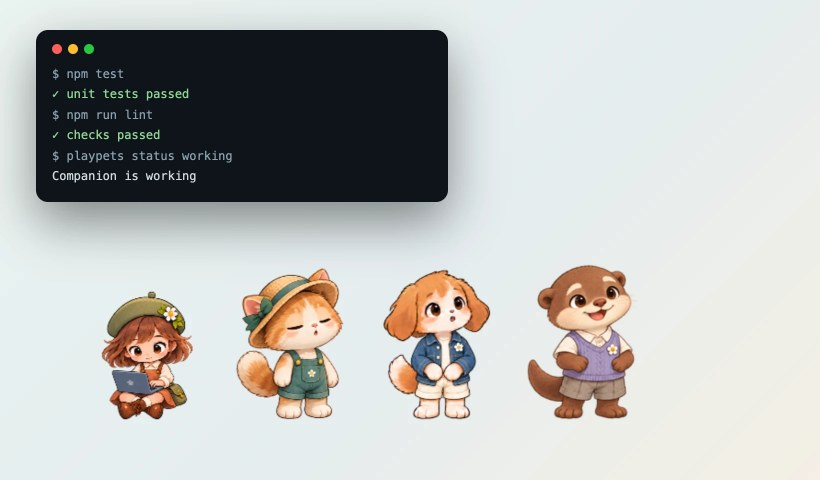
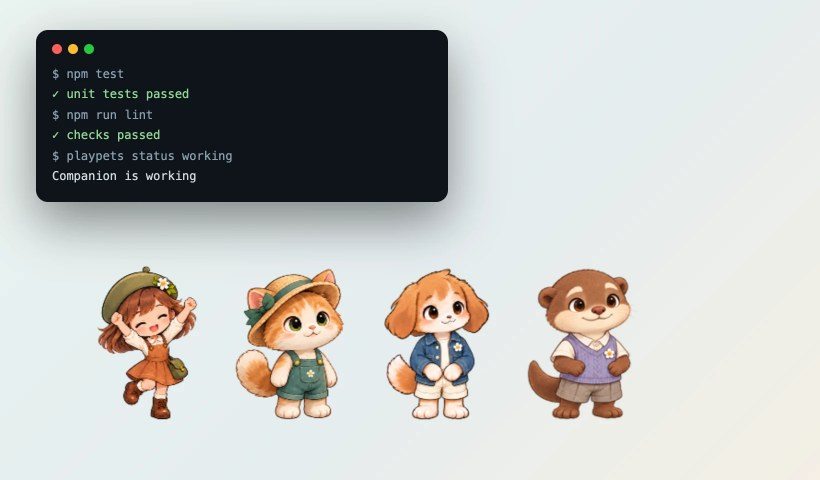
Prepare 1.5.0 with its release pages and new captures
What changed
- Release pages for 1.5.0 in English, Korean, Japanese and Simplified Chinese, still undated: desktop decorating, the 150-entry album, the sky moments and the Windows fixes.
- New captures under website/public/shots/1.5.0 in every site language, and CAPTURE_VERSION moves to them, with the README's.
- pnpm run art redrew the Linux listing pictures and the README animation.
- CHANGELOG lines for the README and the album stamp.

Why
- The album, the yard and the desktop changed since the 1.4.0 captures.

How it was checked
- node scripts/release-page.mjs 1.5.0 and tests/release-notes.test.mjs pass; node scripts/store-notes.mjs 1.5.0 reads well in every language.
- The captures were looked over in each language: album, yard, chat, settings, invite, garden and the desktop.
- pnpm test (Rust 254, Node 1084 passed, 2 skipped), pnpm run lint, pnpm run site:build.

diff --git a/website/ja/releases/1.5.0.md b/website/ja/releases/1.5.0.md
@@ -1,0 +1,39 @@
+---
+version: 1.5.0
+headline: "デスクトップにベンチを"
+---
+
+# 1.5.0
+
+<ReleaseMeta />
+
+デスクトップにベンチを置けるようになりました。友だちとプレゼントを1つずつ出すと、おさんぽ中の友だちが立ち寄ってあいさつします。図鑑は150種類に増えました。
+
+<Downloads version="1.5.0" />
+
+## 変更点
+
+- 友だちを右クリックして**デスクトップに表示**を選ぶと、その友だちだけが出ます。
+- プレゼントもデスクトップに出せて、おさんぽ中の友だちがそばに来てひと言話します。
+- 一度届いたプレゼントは、図鑑の**庭に出す**でまた出せます。
+- デスクトップで右クリックすると、友だちに話しかけたり、デスクトップから外したりできます。
+- 図鑑が150種類に。魚、虫、花、木、小さな発見、プレゼント6種類が加わりました。
+- 図鑑がコレクションノートのようになり、そろった巻には星がつきます。
+- 虹のふもとの地面が光り、そこを掘ると必ず何か見つかります。
+- 天気雨、秋の霧、月明かりの雪、夏の流星群を友だちが教えてくれます。
+- アプリのことを聞くと、友だちがアプリの事実をもとに答えます。
+- 魚と虫はよくいるものほどよく出て、イベント限定のものはレアと表示されます。
+- 思い出のプレゼントのハートは1日だけ出て、その後は指したときだけ出ます。
+- ダウンロードが小さくなり、macOSのディスクイメージは315MBから約180MBになりました。
+- 図鑑で巻を切り替えると、新しい巻の先頭から表示されます。
+- <Only os="Windows" /> Store版のアイコンの後ろに青い四角が出なくなりました。
+- <Only os="Windows" /> Store版で**フォルダーを開く**がエクスプローラーを開くようになりました。
+
+## そのほか
+
+- 最初の友だちは[トップページ](../index.md)から1体ずつ入手でき、ChatGPTやCodexでも使えます。
+- Windowsのダウンロード欄にインストーラー（.exe）も表示されます。[インストール](../guide/install.md)をご覧ください。
+
+友だちとプレゼントの出し方は[デスクトップモード](../guide/desktop.md)、新しく見つかるものは[庭と遊び](../guide/play.md)をご覧ください。
+
+<ReleaseLinks version="1.5.0" />

diff --git a/website/ko/releases/1.5.0.md b/website/ko/releases/1.5.0.md
@@ -1,0 +1,39 @@
+---
+version: 1.5.0
+headline: "바탕화면에 놓인 벤치"
+---
+
+# 1.5.0
+
+<ReleaseMeta />
+
+이제 책상 위에 벤치를 둘 수 있어요. 친구와 선물을 하나씩 내보내면, 산책하던 친구가 들러 인사해요. 도감은 150개로 늘었어요.
+
+<Downloads version="1.5.0" />
+
+## 달라진 점
+
+- 친구를 오른쪽 버튼으로 눌러 **바탕화면에 보이기**를 고르면 그 친구만 나가요.
+- 선물도 바탕화면에 내놓을 수 있고, 산책하던 친구가 옆에 와서 한마디 해요.
+- 한 번 받은 선물은 도감에서 **꺼내 놓기**로 다시 꺼내요.
+- 바탕화면에서 오른쪽 버튼으로 친구에게 말 걸거나 바탕화면에서 빼요.
+- 도감이 150개로 늘었어요. 물고기, 곤충, 꽃, 나무, 작은 발견, 선물 6종이 새로 와요.
+- 도감이 수집 노트처럼 바뀌었고, 다 채운 권에는 별이 붙어요.
+- 무지개가 끝나는 곳의 땅이 반짝이고, 거기를 파면 꼭 무언가 나와요.
+- 여우비, 가을 안개, 달빛 눈, 여름 별똥비가 오면 친구가 알려 줘요.
+- 앱에 대해 물으면 친구가 앱의 사실대로 답해요.
+- 물고기와 곤충은 흔한 만큼 나오고, 이벤트에만 나오는 것은 희귀로 표시돼요.
+- 추억의 선물 하트는 하루만 보이고, 그 뒤엔 가리킬 때만 보여요.
+- 내려받는 파일이 작아졌어요. macOS 디스크 이미지는 315MB에서 약 180MB로 줄었어요.
+- 도감에서 권을 바꾸면 새 권의 맨 위부터 보여요.
+- <Only os="Windows" /> Store 버전 아이콘에 파란 네모가 더는 깔리지 않아요.
+- <Only os="Windows" /> Store 버전에서 **폴더 열기**가 다시 파일 탐색기를 열어요.
+
+## 그 밖에
+
+- 기본 친구를 [첫 페이지](../index.md)에서 하나씩 받을 수 있고, ChatGPT와 Codex에서도 써요.
+- Windows 다운로드 영역에 설치 파일(.exe)도 보여요. [설치](../guide/install.md)를 참고하세요.
+
+친구와 선물을 내보내는 법은 [바탕화면 모드](../guide/desktop.md)에, 새로 찾을 것은 [놀이터와 놀이](../guide/play.md)에 있어요.
+
+<ReleaseLinks version="1.5.0" />

diff --git a/website/releases/1.5.0.md b/website/releases/1.5.0.md
@@ -1,0 +1,39 @@
+---
+version: 1.5.0
+headline: "A bench on your desktop"
+---
+
+# 1.5.0
+
+<ReleaseMeta />
+
+Your desk can have a bench now: send friends and gifts out one at a time, and a strolling friend stops by to say hello. The album grows to 150 finds.
+
+<Downloads version="1.5.0" />
+
+## What changed
+
+- Right-click a friend and choose **Show on desktop** to send just that friend out.
+- Gifts go out to the desktop too, and strolling friends stop by them to say something.
+- Press **Set out** in the album to bring back any gift that came before.
+- A right-click on the desktop lets you talk to a friend or take it off the desktop.
+- The album grows to 150: new fish, bugs, flowers, trees, keepsakes and six gifts.
+- The album reads like a collector's notebook, with a star for each finished book.
+- Where a rainbow ends the ground glimmers, and a dig there always finds something.
+- Sunshowers, autumn mist, moonlit snow and summer meteor showers, each pointed out.
+- Ask a friend about the app and it answers from the app's own facts.
+- Fish and bugs turn up as often as they are common; event-only finds are marked rare.
+- A memento's heart shows for a day, then only when you point at the memento.
+- Downloads are smaller: the macOS disk image is about 180 MB instead of 315 MB.
+- Switching books in the album starts at the top of the new book.
+- <Only os="Windows" /> The Store version's icon no longer sits on a blue square.
+- <Only os="Windows" /> In the Store version, **Open folder** opens File Explorer again.
+
+## Also
+
+- Each starter friend downloads by itself from the [front page](../index.md), ready for ChatGPT and Codex too.
+- On Windows, the download section also offers the installer (.exe); see [Install](../guide/install.md).
+
+Sending friends and gifts out is in [Desktop mode](../guide/desktop.md); the new finds are in [The yard and games](../guide/play.md).
+
+<ReleaseLinks version="1.5.0" />

diff --git a/website/zh-hans/releases/1.5.0.md b/website/zh-hans/releases/1.5.0.md
@@ -1,0 +1,39 @@
+---
+version: 1.5.0
+headline: "桌面上的长椅"
+---
+
+# 1.5.0
+
+<ReleaseMeta />
+
+现在桌面上也能放一张长椅了：把伙伴和礼物一个个放出来，散步的伙伴会过来打招呼。图鉴增加到 150 种。
+
+<Downloads version="1.5.0" />
+
+## 更新内容
+
+- 右键点伙伴，选**在桌面上显示**，就只让这位伙伴出来。
+- 礼物也能放到桌面上，散步的伙伴会走到旁边说一句话。
+- 收到过的礼物，可以在图鉴里点**摆出来**再拿出来。
+- 在桌面上右键，可以和伙伴聊天，或把它从桌面移走。
+- 图鉴增加到 150 种：新的鱼、虫、花、树木、小小发现和 6 种礼物。
+- 图鉴像一本收藏笔记，集齐的一册会亮起星星。
+- 彩虹尽头的地面会闪光，在那里挖一定能找到东西。
+- 太阳雨、秋天的晨雾、月光下的雪和夏夜流星雨，伙伴都会提醒你。
+- 问伙伴关于应用的事，它会照着应用的事实回答。
+- 鱼和虫越常见出现得越多，只在活动期间出现的标为稀有。
+- 纪念礼物的爱心只显示一天，之后只在指向它时显示。
+- 下载文件更小了：macOS 磁盘映像从 315 MB 减到约 180 MB。
+- 在图鉴里切换册子时，会从新一册的顶部开始。
+- <Only os="Windows" /> 商店版的图标不再垫着蓝色方块。
+- <Only os="Windows" /> 商店版的**打开文件夹**又能打开文件资源管理器了。
+
+## 其他
+
+- 初始伙伴可以在[首页](../index.md)单独下载，在 ChatGPT 和 Codex 里也能用。
+- Windows 的下载区也提供安装文件（.exe），见[安装](../guide/install.md)。
+
+怎么把伙伴和礼物放到桌面上，见[桌面模式](../guide/desktop.md)；新的发现见[乐园和游戏](../guide/play.md)。
+
+<ReleaseLinks version="1.5.0" />

diff --git a/CHANGELOG.md b/CHANGELOG.md
@@ -35,12 +35,14 @@ Changes people can see in PlayPets, release by release. The format follows [Keep
 
 ### Fixed
 
+- On a narrow album card, a catch's biggest size stays on one line with its "cm" instead of leaving the unit alone on the next line.
 - In the Microsoft Store version, the icon on the taskbar and in the Start menu no longer sits on a blue square.
 - Switching books in the album starts at the top of the new book instead of where the last one was scrolled.
 - In the Microsoft Store version, **Open folder** in Invite a friend and **Open the data folder** in About PlayPets now open the folder in File Explorer instead of failing.
 
 ### Website and docs
 
+- The README opens with friends that come with the app, so it no longer reads as only for people with Codex pets, and is shorter: it adds a Windows installer (.exe) download beside the Microsoft Store, describes friends and gifts going out to the desktop one by one, says which Windows the Store package needs and where to report a bug, and leaves the developer commands, workflows and repository map to the developer docs.
 - On Windows, the download section shows the GitHub installer (.exe) for your PC with its version right under the Microsoft Store button, and the SmartScreen note under it, instead of only in the folded list.
 - The desktop guide and the play guide describe sending one friend or one gift to the desktop, the desktop's right-click menu and setting a gift out again from the album.
 - Each of the four friends can be downloaded by itself from the front page as `playpets-<name>.zip`, seasonal outfits included: PlayPets imports it as it is, and unzipped into `~/.codex/pets` the friend comes to ChatGPT and Codex too. The character studio's ready friend is the same download, and the old kit ZIPs are gone.
